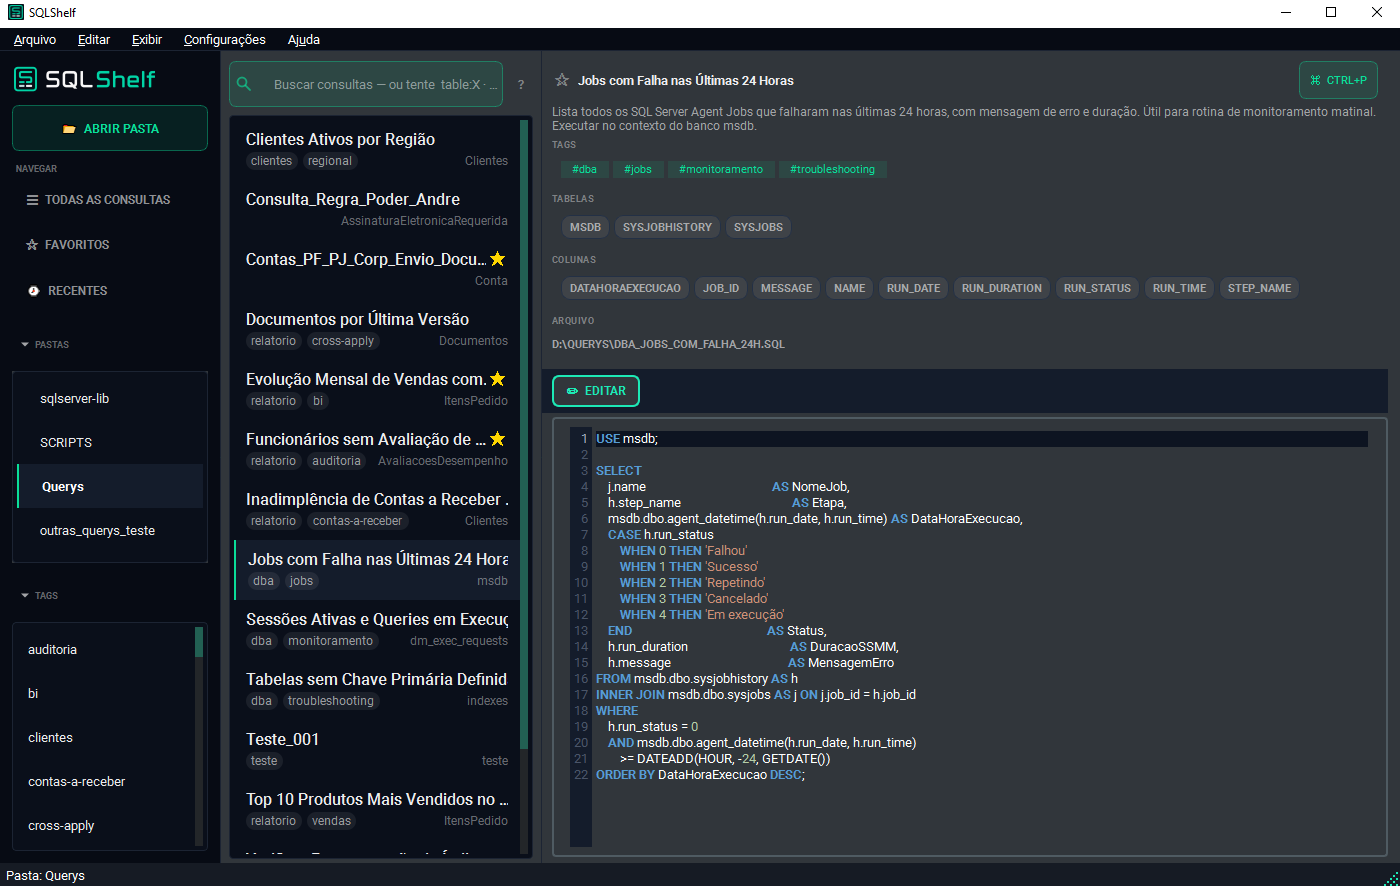
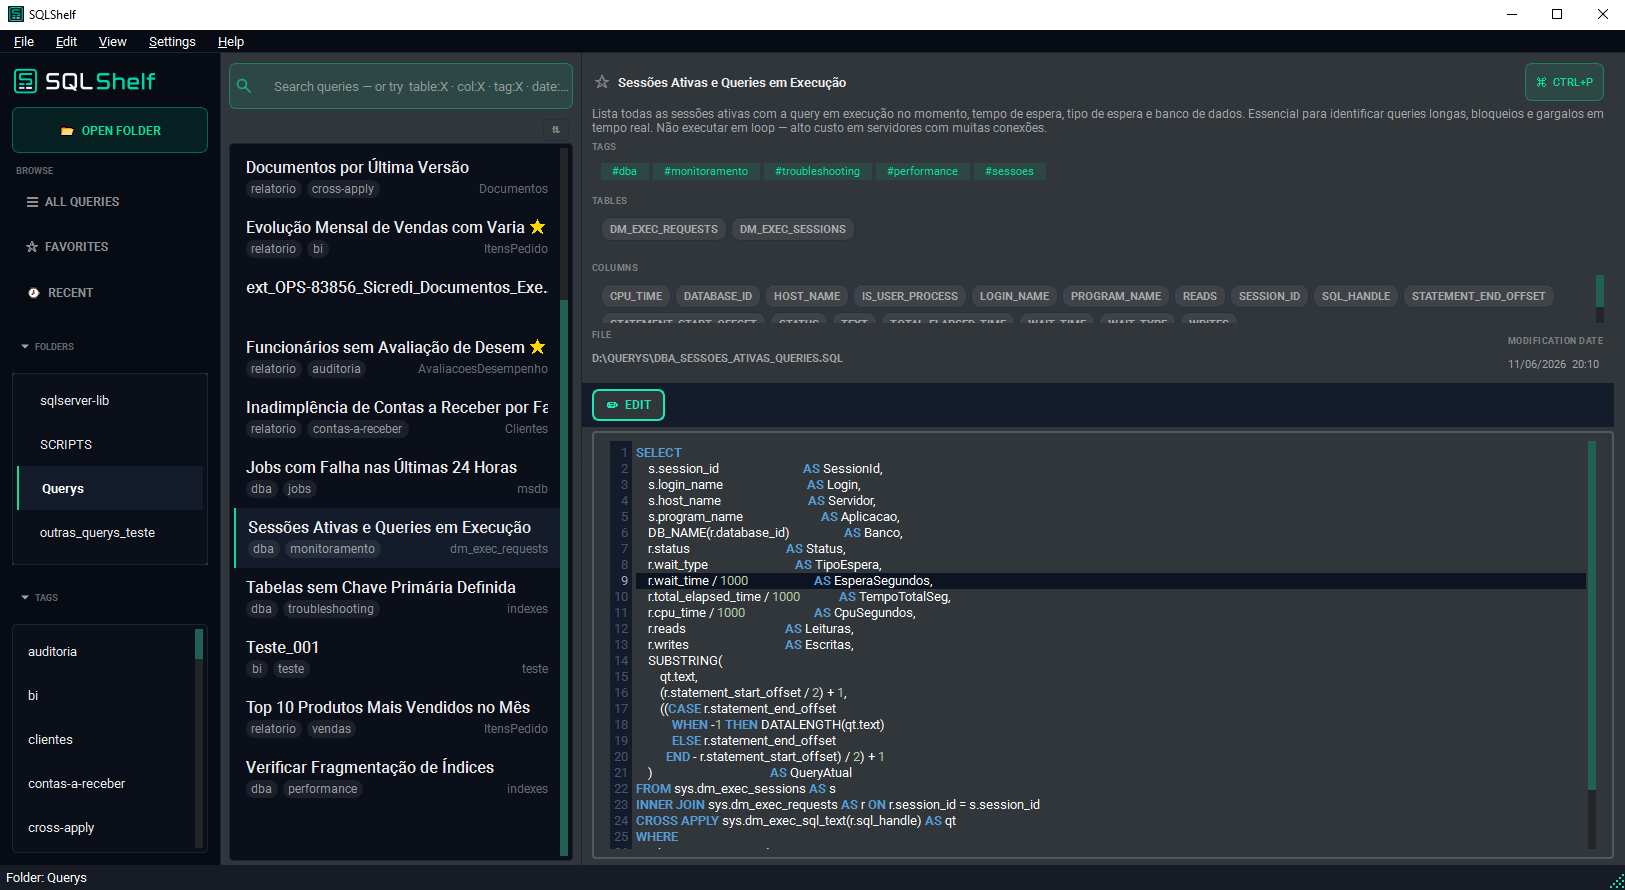
docs: update README images and fix release badge
- Replace dynamic GitHub release badge with static v1.0.4 badge
- Update logo_sqlshelf.png and Screenshot_SQLShelf.png
- Add Screenshot_SQLShelf_white.png (light theme screenshot)

diff --git a/README.md b/README.md
@@ -9,7 +9,7 @@
 
 <p align="center">
   <a href="https://github.com/raphamaster/SQLShelf/releases/latest">
-    <img src="https://img.shields.io/github/v/release/raphamaster/SQLShelf?style=flat-square&color=0ADE99" alt="Latest release"/>
+    <img src="https://img.shields.io/badge/release-v1.0.4-0ADE99?style=flat-square" alt="Latest release"/>
   </a>
   <img src="https://img.shields.io/badge/platform-Windows%20%7C%20Linux-0ADE99?style=flat-square" alt="Platform"/>
   <img src="https://img.shields.io/badge/python-3.12%2B-0ADE99?style=flat-square" alt="Python"/>
@@ -19,7 +19,11 @@
 ---
 
 <p align="center">
-  <img src="images/Screenshot_SQLShelf.png" alt="SQLShelf screenshot" width="860" />
+  <img src="images/Screenshot_SQLShelf.png" alt="SQLShelf — dark theme" width="860" />
+</p>
+
+<p align="center">
+  <img src="images/Screenshot_SQLShelf_white.png" alt="SQLShelf — light theme" width="860" />
 </p>
 
 ---